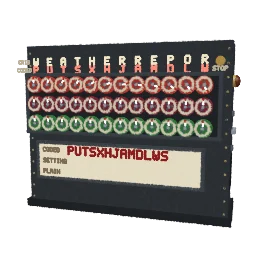
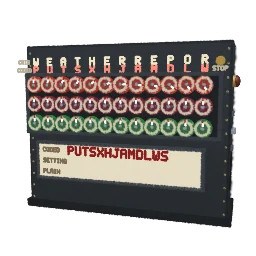
Machines A: the Enigma's case and the Bombe's cabinet built face by face, so the faces people see get the splats; smooth wood and paint instead of noise (the owner's second notes)
Claude-Session: https://claude.ai/code/session_012AAs7rjs98dgurA1n4iRt2

diff --git a/src/packs/computing-history.js b/src/packs/computing-history.js
@@ -117,6 +117,70 @@ function gear(k, pos, R, teeth, t, color, opts = {}) {
   k.add(evenCylinder(R * 0.2, R * 0.2, t * 1.6, true), { pos, rot: opts.rot, even: true, weight: 2, pattern: false, part: opts.part, color: steel }); // prettier-ignore
 }
 
+// A box built face by face, so the faces people see get the splats: each
+// face takes its own weight (0 leaves it out), keyed front (+z), back, left
+// (-x), right, top and bottom. Faces are placed evenly and lie flat, and a
+// darker band along each edge keeps the corners crisp.
+function panelBox(k, size, pos, color, weights, opts = {}) {
+  const [sx, sy, sz] = size;
+  const faces = {
+    front: { n: [0, 0, 1], u: [1, 0, 0], v: [0, 1, 0], w: sx, h: sy, d: sz / 2 },
+    back: { n: [0, 0, -1], u: [-1, 0, 0], v: [0, 1, 0], w: sx, h: sy, d: sz / 2 },
+    right: { n: [1, 0, 0], u: [0, 0, -1], v: [0, 1, 0], w: sz, h: sy, d: sx / 2 },
+    left: { n: [-1, 0, 0], u: [0, 0, 1], v: [0, 1, 0], w: sz, h: sy, d: sx / 2 },
+    top: { n: [0, 1, 0], u: [1, 0, 0], v: [0, 0, -1], w: sx, h: sz, d: sy / 2 },
+    bottom: { n: [0, -1, 0], u: [1, 0, 0], v: [0, 0, 1], w: sx, h: sz, d: sy / 2 },
+  };
+  const edge = opts.edge ?? 0.012;
+  for (const [name, f] of Object.entries(faces)) {
+    const weight = weights[name] ?? 0;
+    if (!weight) continue;
+    // One flat face with an even 2D layout (like evenBox's faces).
+    const at = (a, b) => ({
+      p: [0, 1, 2].map((i) => pos[i] + f.n[i] * f.d + f.u[i] * (a - 0.5) * f.w + f.v[i] * (b - 0.5) * f.h), // prettier-ignore
+      n: f.n,
+      u: a,
+      v: b,
+    });
+    // Each even point is nudged by about half a splat's spacing, so the
+    // exact lattice doesn't show as a fine hatch (docs/PACKS.md 7c).
+    const hash = (x, y) => {
+      const q = Math.sin(x * 12.9898 + y * 78.233) * 43758.5453;
+      return q - Math.floor(q) - 0.5;
+    };
+    const nudge = opts.nudge ?? 0.003;
+    const shape = {
+      area: f.w * f.h,
+      thick: Math.min(f.w, f.h) * 0.01,
+      sample: (rand) => at(rand(), rand()),
+      sampleEven: (a, b) =>
+        at(clamp01(a + (hash(a, b) * nudge) / f.w), clamp01(b + (hash(b + 0.37, a) * nudge) / f.h)),
+    };
+    k.add(shape, {
+      even: true,
+      flat: 0.12,
+      weight,
+      size: 1.2,
+      pattern: false,
+      color: (c) => {
+        const out = color(c, name);
+        const e = Math.min(f.w / 2 - Math.abs((c.u - 0.5) * f.w), f.h / 2 - Math.abs((c.v - 0.5) * f.h)); // prettier-ignore
+        if (!out || e > edge) return out;
+        return out.keep ? keep(shade(out.c, 0.8)) : shade(out, 0.8);
+      },
+    });
+  }
+}
+// Smooth wood: broad, soft grain bands along x (no fine noise, which reads
+// as blur at phone size).
+function cleanWood(col = WOOD, scale = 1) {
+  return (c) => {
+    const g =
+      0.5 + 0.5 * Math.sin((c.p[1] * 22 + c.p[2] * 9) * scale + Math.sin(c.p[0] * 3.1) * 1.4);
+    return keep(lit(mix(col, shade(col, 0.86), g), c.n, { amb: 0.66, dif: 0.4, spec: 0.14 }));
+  };
+}
+
 // ---- Pixel-font text -----------------------------------------------------------------
 
 const GLYPHS = {
@@ -1165,8 +1229,8 @@ function buildEnigma(k, o) {
   // The box: a wooden case with a dark crackle-finish top plate.
   const W = 1.62;
   const D = 1.72;
-  block(k, [W + 0.12, 0.36, D + 0.12], [0, -0.2, -0.22], wood());
-  block(k, [W, 0.02, D], [0, -0.01, -0.22], (c) => keep(lit(mix("#2a2c2f", "#34373b", 0.5 + 0.5 * c.noise(c.p[0] * 60, 0, c.p[2] * 60)), c.n, { amb: 0.75, dif: 0.3, spec: 0.15 }))); // prettier-ignore
+  panelBox(k, [W + 0.12, 0.36, D + 0.12], [0, -0.2, -0.22], cleanWood(), { front: 2.2, top: 1.2, left: 1.8, right: 1.8, back: 0.4 }); // prettier-ignore
+  panelBox(k, [W, 0.02, D], [0, -0.01, -0.22], (c) => keep(lit(mix("#2b2d31", "#36393e", clamp01(0.5 - c.p[2] * 0.3)), c.n, { amb: 0.75, dif: 0.3, spec: 0.15 })), { top: 1.6 }); // prettier-ignore
   // The keys: a black cap with a metal rim and a white letter on a short
   // stem (tokens 0..25, by letter).
   for (const ch of AZ) {
@@ -1287,14 +1351,14 @@ function buildEnigma(k, o) {
   // decoded letters on the second tap (channel 1).
   const lz = -0.22 - D / 2 - 0.06;
   const lidH = 0.98;
-  block(k, [W + 0.12, lidH, 0.05], [0, lidH / 2 - 0.02, lz], wood(DARK_WOOD));
+  panelBox(k, [W + 0.12, lidH, 0.05], [0, lidH / 2 - 0.02, lz], cleanWood(DARK_WOOD), { front: 1.8, top: 1.2, left: 1.2, right: 1.2, back: 0.3 }); // prettier-ignore
   // The lid's brass hinges.
   for (const sx of [-0.55, 0.55])
     k.add(evenCylinder(0.02, 0.02, 0.16, true), { pos: [sx, -0.01, lz + 0.03], rot: [0, 0, 90], even: true, weight: 2, pattern: false, color: brass }); // prettier-ignore
   const padW = 1.3;
   const padH = 0.74;
   const pcy = lidH / 2 + 0.02;
-  block(k, [padW, padH, 0.01], [0, pcy, lz + 0.03], (c) => keep(lit("#f3ecd8", c.n, { amb: 0.85, dif: 0.2, spec: 0 }))); // prettier-ignore
+  panelBox(k, [padW, padH, 0.01], [0, pcy, lz + 0.03], (c) => keep(lit("#f3ecd8", c.n, { amb: 0.85, dif: 0.2, spec: 0 })), { front: 1.4 }, { edge: 0.006 }); // prettier-ignore
   const px = 0.022;
   const lines = [
     ["MESSAGE", msg, null],
@@ -1477,11 +1541,11 @@ function buildBombe(k, o) {
   const D = 0.74;
   const fz = BO.front;
   // The cabinet: a dark painted steel case on a plinth, with brass edges.
-  block(k, [W, H, D], [0, H / 2, 0], (c) => keep(lit(mix("#2b2f33", "#33383d", 0.5 + 0.5 * c.noise(c.p[0] * 40, c.p[1] * 40, c.p[2] * 40)), c.n, { amb: 0.72, dif: 0.35, spec: 0.12 }))); // prettier-ignore
+  panelBox(k, [W, H, D], [0, H / 2, 0], (c) => keep(lit(mix("#2a2e33", "#353a40", clamp01(c.p[1] / H)), c.n, { amb: 0.72, dif: 0.35, spec: 0.12 })), { front: 2.2, left: 1.4, right: 1.4, top: 1.2, back: 0.3 }); // prettier-ignore
   block(k, [W + 0.08, 0.08, D + 0.08], [0, 0.04, 0], (c) =>
     keep(lit("#1d2023", c.n, { amb: 0.75 })),
   );
-  block(k, [W - 0.1, 0.72, 0.012], [-0.08 + 0.02, 1.34, fz + 0.006], (c) => keep(lit("#1f2226", c.n, { amb: 0.8, dif: 0.25 }))); // prettier-ignore
+  panelBox(k, [W - 0.1, 0.72, 0.012], [-0.08 + 0.02, 1.34, fz + 0.006], (c) => keep(lit("#1f2226", c.n, { amb: 0.8, dif: 0.25 })), { front: 1.6 }, { edge: 0 }); // prettier-ignore
   // Raised frames round the drum panel and the readout, rivets along the
   // cabinet's front edges, handles and vents on its sides.
   const frame = (w, h, cx, cy) => {
@@ -1545,7 +1609,7 @@ function buildBombe(k, o) {
   // The readout board below the drums: the coded text, and, when it stops,
   // the setting found (fade channel 1) and the plain text (channel 0).
   const ry = 0.62;
-  block(k, [2.1, 0.46, 0.02], [-0.08, ry, fz + 0.01], (c) => keep(lit("#efe6cc", c.n, { amb: 0.85, dif: 0.2, spec: 0 }))); // prettier-ignore
+  panelBox(k, [2.1, 0.46, 0.02], [-0.08, ry, fz + 0.01], (c) => keep(lit("#efe6cc", c.n, { amb: 0.85, dif: 0.2, spec: 0 })), { front: 1.6 }, { edge: 0 }); // prettier-ignore
   const px = 0.0155;
   const lx = -0.08 - 1.0;
   const line = (label, str, y, color, ch) => {
